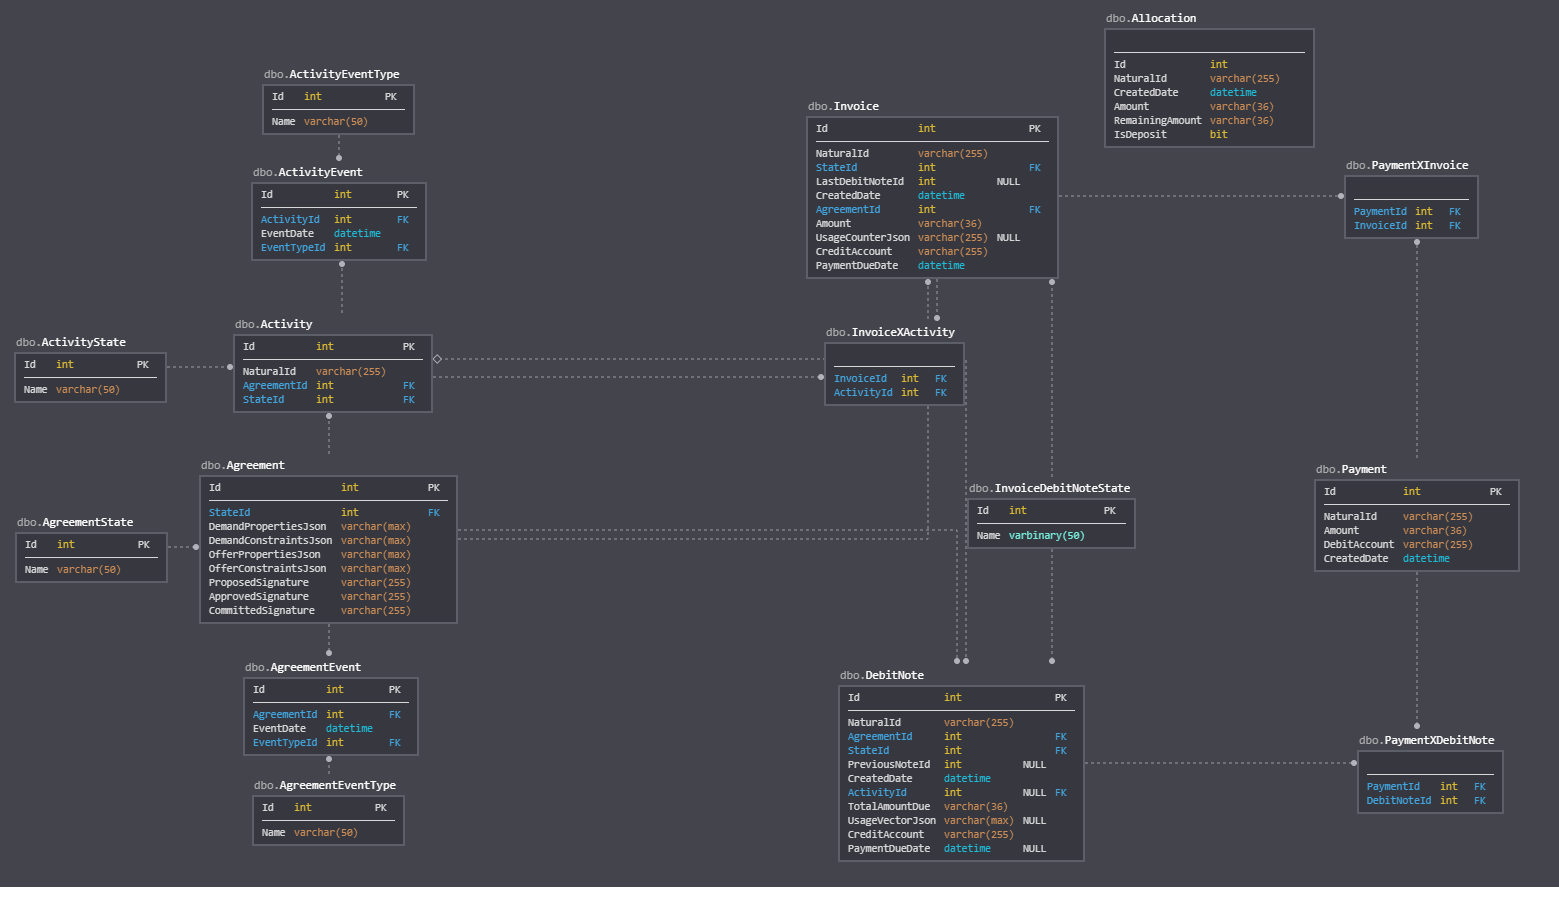
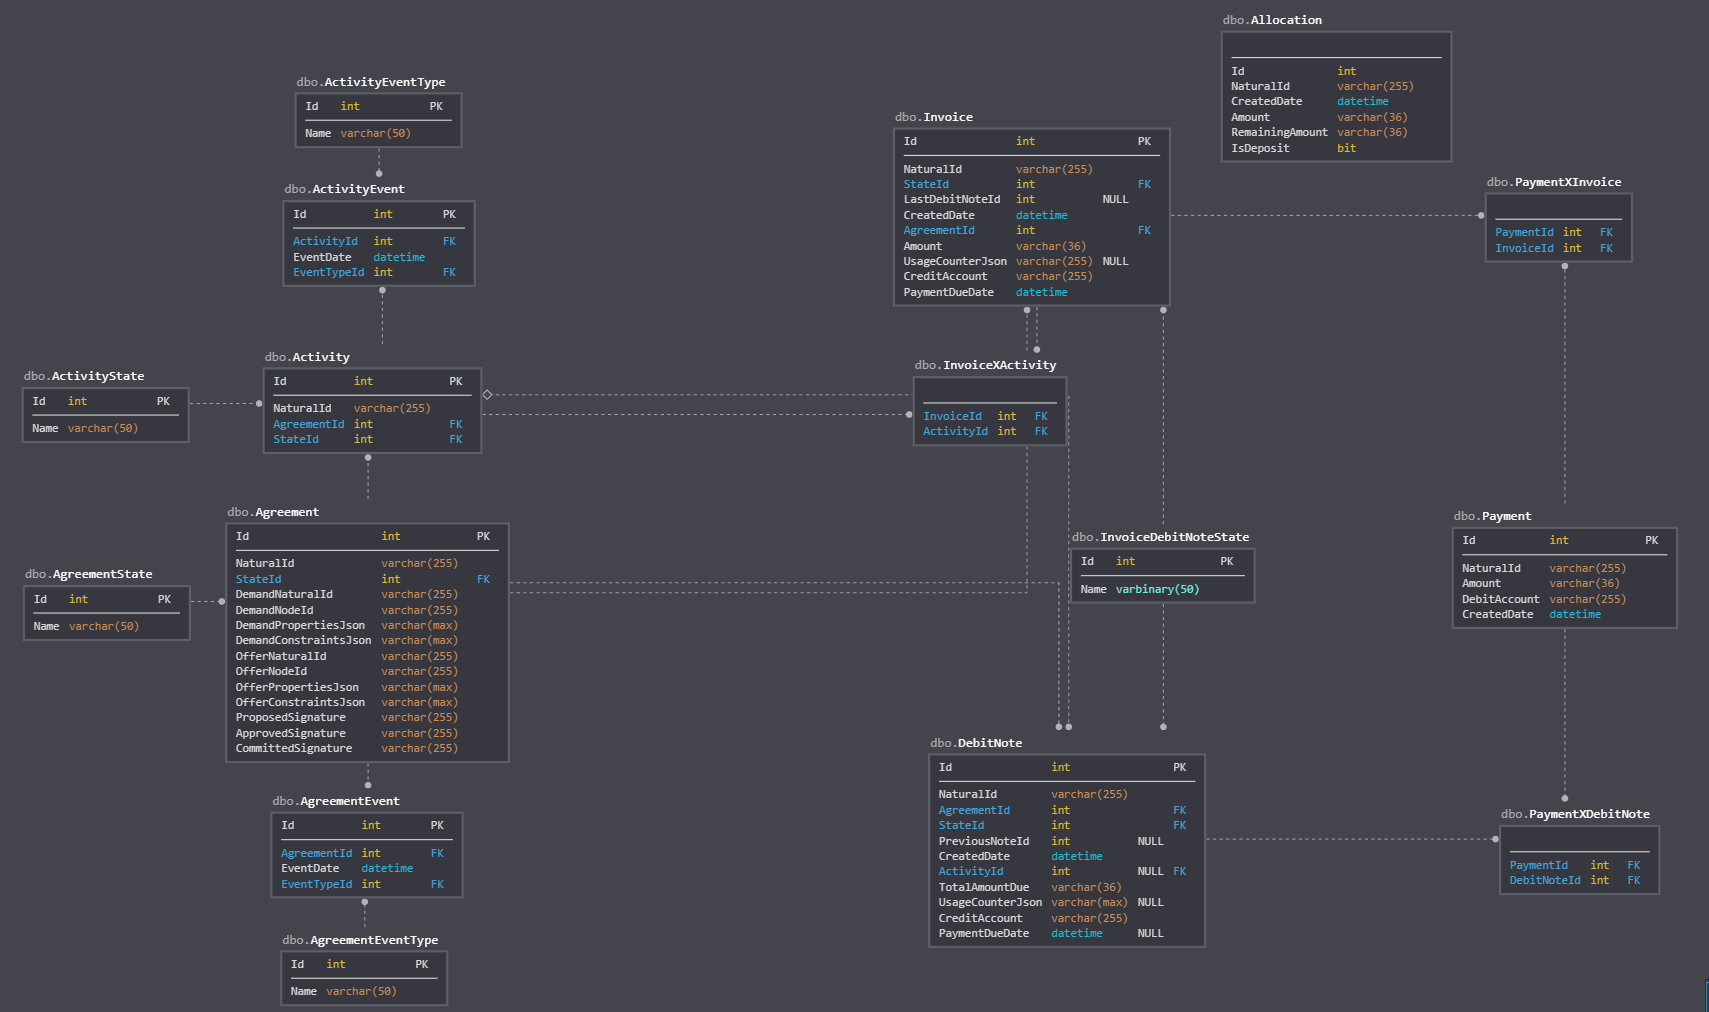
Updates to Yagna DB schema and specs

diff --git a/core/persistence/src/schema.rs b/core/persistence/src/schema.rs
@@ -33,9 +33,14 @@ table! {
 table! {
     Agreement (Id) {
         Id -> Integer,
+        NaturalId -> Text,
         StateId -> Integer,
+        DemandNaturalId -> Text,
+        DemandNodeId -> Text,
         DemandPropertiesJson -> Text,
         DemandConstraintsJson -> Text,
+        OfferNaturalId -> Text,
+        OfferNodeId -> Text,
         OfferPropertiesJson -> Text,
         OfferConstraintsJson -> Text,
         ProposedSignature -> Text,
@@ -88,7 +93,7 @@ table! {
         CreatedDate -> Timestamp,
         ActivityId -> Nullable<Integer>,
         TotalAmountDue -> Text,
-        UsageVectorJson -> Nullable<Text>,
+        UsageCounterJson -> Nullable<Text>,
         CreditAccount -> Text,
         PaymentDueDate -> Nullable<Timestamp>,
     }

diff --git a/core/persistence/README.md b/core/persistence/README.md
@@ -1,5 +1,72 @@
 # Yagna persistence db schema
 
+This module is an implementation of Yagna Daemon persistance layer, required to record and maintain the aspects of Daemon funcitonality related to Market, Activity and Payment APIs.
+
+It is based on SQLite3 and Diesel libraries.
+
+## Prerequisites
+
+### Ubuntu
+
+```sh
+apt update
+apt install curl git build-essential libsql3-dev
+curl https://sh.rustup.rs -sSf | sh
+source ~/.cargo/env
+```
+
+### Windows
+
+Firstly, you will need to install [vcpkg](https://github.com/microsoft/vcpkg):
+```
+> git clone https://github.com/Microsoft/vcpkg.git
+> cd vcpkg
+> .\bootstrap-vcpkg.bat
+```
+
+Then, set the following environment variable for your account:
+
+```
+setx VCPKG_ROOT <path_to_where_you_cloned_vcpkg>
+```
+
+After you've done all that, you'll need to install `libsqlite3` using `vcpkg`.
+From the dir where you cloned the `vcpkg` into, run:
+
+```
+> .\vcpkg install sqlite3 --triplet x64-windows-static
+```
+
+Once `sqlib3.lib` is built, set the environment path to point to folder where the .lib file is located:
+
+```
+> setx SQLITE3_LIB_DIR <path_to_where_you_cloned_vcpkg>\installed\x64-windows-static\lib
+
+```
+
+### Common
+
+Install Diesel CLI with SQLite:
+```
+cargo install diesel_cli --no-default-features --features sqlite
+```
+
+Run the migration to apply SQL schema to working db file and generate `schema.rs`:
+```
+diesel migration run
+```
+It is also possible to re-generate:
+```
+diesel migration redo
+```
+
+For actual execution, the name of db file to be used is controlled via environment variable:
+```
+DATABASE_URL=yagna.sqlite3
+```
+
+## Datamodel
+
 ![alt text](ERD.png "Entity Relationship diagram")
 
 
@@ -14,14 +81,19 @@ Table including all the attributes of an Agreement.
 | Column                | Type    | Description |
 |-----------------------|---------|-----------|
 | Id                    | integer | Primary key, autoincrement |
-| StateId               | integer | Foreign key to AgreementState |
+| NaturalId             | varchar(255) | Natural (public) Id of the Agreement |
+| StateId               | integer | Foreign key to `AgreementState` |
+| DemandNaturalId       | varchar(255) | Natural (public) Id of the Demand which formed the Agreement |
+| DemandNodeId          | varchar(255) | Node Id of Demand issuer |
 | DemandPropertiesJson  | TEXT    | JSON text specifying Demand Properties |
 | DemandConstraintsJson | TEXT    | Demand Constraints criteria expression |
+| OfferNaturalId        | varchar(255) | Natural (public) Id of the Offer which formed the Agreement |
+| OfferNodeId           | varchar(255) | Node Id of Offer Issuer |
 | OfferPropertiesJson   | TEXT    | JSON text specifying Offer Properties |
 | OfferConstraintsJson  | TEXT    | Demand Constraints criteria expression |
-| ProposedSignature     | TEXT    | Digital signature bitstream (Base64-encoded) of the Agreement artifact serialized after Confirm() operation on Requestor side |
-| ApprovedSignature     | TEXT    | Digital signature bitstream (Base64-encoded) of the Agreement artifact serialized after Approve() operation on Provider side |
-| CommittedSignature    | TEXT    | Digital signature bitstream (Base64-encoded) of the Agreement artifact serialized after Approved message is delivered to Requestor side and final committment is sent to Provider |
+| ProposedSignature     | TEXT    | Digital signature bitstream (Base64-encoded) of the Agreement artifact serialized after `Confirm()` operation on Requestor side |
+| ApprovedSignature     | TEXT    | Digital signature bitstream (Base64-encoded) of the Agreement artifact serialized after `Approve()` operation on Provider side |
+| CommittedSignature    | TEXT    | Digital signature bitstream (Base64-encoded) of the Agreement artifact serialized after Approved message is delivered to Requestor side and final commitment is sent to Provider |
 
 ### `AgreementEvent`
 
@@ -30,8 +102,8 @@ Table that tracks all events related to the Agreement.
 | Column                | Type    | Description |
 |-----------------------|---------|-----------|
 | Id                    | integer | Primary key, autoincrement |
-| AgreementId           | integer | Foreign key to Agreement |
-| EventDate             | datetime| |
+| AgreementId           | integer | Foreign key to `Agreement` |
+| EventDate             | datetime| Event timestamp in UTC |
 | EventTypeId           | integer | Foreign key to AgreementEventType |
 
 ### `AgreementEventType`
@@ -61,9 +133,9 @@ Tables containing entities essential for the Activity management and auditing.
 | Column                | Type    | Description |
 |-----------------------|---------|-----------|
 | Id                    | integer | Primary key, autoincrement |
-| NaturalId             | varchar(255) | |
-| AgreementId           | integer | Foreign key to Agreement |
-| StateId               | integer | Foreign key to ActivityState |
+| NaturalId             | varchar(255) | Natural (public) Id of the Activity |
+| AgreementId           | integer | Foreign key to `Agreement` |
+| StateId               | integer | Foreign key to `ActivityState` |
 
 
 ### `ActivityEvent`
@@ -71,9 +143,9 @@ Tables containing entities essential for the Activity management and auditing.
 | Column                | Type    | Description |
 |-----------------------|---------|-----------|
 | Id                    | integer | Primary key, autoincrement |
-| ActivityId            | integer | Foreign key to Activity |
-| EventDate             | datetime| |
-| EventTypeId           | integer | Foreign key to ActivityEventType |
+| ActivityId            | integer | Foreign key to `Activity` |
+| EventDate             | datetime| Event timestamp in UTC |
+| EventTypeId           | integer | Foreign key to `ActivityEventType` |
 
 
 ### `ActivityEventType`
@@ -103,11 +175,11 @@ Tables containing entities essential for the Payment Protocol execution.
 | Column                | Type    | Description |
 |-----------------------|---------|-----------|
 | Id                    | integer | Primary key, autoincrement |
-| NaturalId             | varchar(255) | |
-| CreatedDate           | datetime | |
-| Amount                | varchar(36) | |
-| RemainingAmount       | varchar(36) | |
-| IsDeposit             | char(1) | |
+| NaturalId             | varchar(255) | Natural (public) Id of the Allocation |
+| CreatedDate           | datetime | Allocation creation timestamp in UTC |
+| Amount                | varchar(36) | Maximum Allocation amount |
+| RemainingAmount       | varchar(36) | Amount remaining in allocation (after all deduction operations) |
+| IsDeposit             | char(1) | Indicates if the Allocation has been also transferred into relevant Deposit account (for Payment Platforms which leverage Deposits) |
 
 
 ### `DebitNote`
@@ -115,31 +187,31 @@ Tables containing entities essential for the Payment Protocol execution.
 | Column                | Type    | Description |
 |-----------------------|---------|-----------|
 | Id                    | integer | Primary key, autoincrement |
-| NaturalId             | varchar(255) | |
-| AgreementId           | integer | Foreign key to Agreement |
-| StateId               | integer | Foreign key to InvoiceDebitNoteState |
+| NaturalId             | varchar(255) | Natural (public) Id of the Debit Note |
+| AgreementId           | integer | Foreign key to `Agreement` |
+| StateId               | integer | Foreign key to `InvoiceDebitNoteState` |
 | PreviousNoteId        | integer | Foreign key to self |
-| CreatedDate           | datetime | |
-| ActivityId            | integer | Foreign key to Activity |
-| TotalAmountDue        | varchar(36) | |
-| UsageVectorJson       | TEXT | |
-| CreditAccount         | varchar(255) | |
-| PaymentDueDate        | datetime | |
+| CreatedDate           | datetime | Debit Note creation timestamp (in UTC) |
+| ActivityId            | integer | Foreign key to `Activity` |
+| TotalAmountDue        | varchar(36) | Total owed amount owed accrued by the Activity |
+| UsageCounterJson       | TEXT | JSON representation of the Activity's usage counters vector at the time of Debit Note issue |
+| CreditAccount         | varchar(255) | The target account to which payment should be made |
+| PaymentDueDate        | datetime | The timestamp (in UTC) by which the payment is expected to arrive |
 
 ### `Invoice`
 
 | Column                | Type    | Description |
 |-----------------------|---------|-----------|
 | Id                    | integer | Primary key, autoincrement |
-| NaturalId             | varchar(255) | |
-| StateId               | integer | Foreign key to InvoiceDebitNoteState |
-| LastDebitNoteId       | integer | Foreign key to DebitNote |
-| CreatedDate           | datetime | |
-| AgreementId           | integer | Foreign key to Agreement |
-| Amount                | varchar(36) | |
-| UsageCounterJson      | varchar(255) | |
-| CreditAccount         | varchar(255) | |
-| PaymentDueDate        | datetime | |
+| NaturalId             | varchar(255) | Natural (public) Id of the Invoice |
+| StateId               | integer | Foreign key to `InvoiceDebitNoteState` |
+| LastDebitNoteId       | integer | Foreign key to `DebitNote` |
+| CreatedDate           | datetime | Invoice creation timestamp (in UTC) |
+| AgreementId           | integer | Foreign key to `Agreement` |
+| Amount                | varchar(36) | Total owed amount owed accrued by the Agreement |
+| UsageCounterJson      | varchar(255) |  JSON representation of the Agreement's usage counters vector which is a base for the Invoice amount |
+| CreditAccount         | varchar(255) | The target account to which payment should be made |
+| PaymentDueDate        | datetime | The timestamp (in UTC) by which the payment is expected to arrive |
 
 ### `InvoiceDebitNoteState`
 
@@ -155,18 +227,18 @@ Association table between Invoice and Activity.
 | Column                | Type    | Description |
 |-----------------------|---------|-----------|
 | Id                    | integer | Primary key, autoincrement |
-| InvoiceId             | integer | Foreign key to Invoice |
-| ActivityId            | integer | Foreign key to Activity |
+| InvoiceId             | integer | Foreign key to `Invoice` |
+| ActivityId            | integer | Foreign key to `Activity` |
 
 ### `Payment`
 
 | Column                | Type    | Description |
 |-----------------------|---------|-----------|
 | Id                    | integer | Primary key, autoincrement |
-| NaturalId             | varchar(255) | |
-| Amount                | varchar(36) | |
-| DebitAccount          | varchar(255) | |
-| CreatedDate           | datetime | |
+| NaturalId             | varchar(255) | Natural (public) Id of the Payment |
+| Amount                | varchar(36) | Payment Amount |
+| DebitAccount          | varchar(255) | Account from which the payment has been made |
+| CreatedDate           | datetime | Payment timestamp (in UTC) |
 
 ### `PaymentXDebitNote`
 
@@ -175,8 +247,8 @@ Association table between Payment and DebitNote.
 | Column                | Type    | Description |
 |-----------------------|---------|-----------|
 | Id                    | integer | Primary key, autoincrement |
-| PaymentId             | integer | Foreign key to Payment |
-| DebitNoteId           | integer | Foreign key to DebitNote |
+| PaymentId             | integer | Foreign key to `Payment` |
+| DebitNoteId           | integer | Foreign key to `DebitNote` |
 
 ### `PaymentXInvoice`
 
@@ -185,5 +257,5 @@ Association table between Payment and Invoice.
 | Column                | Type    | Description |
 |-----------------------|---------|-----------|
 | Id                    | integer | Primary key, autoincrement |
-| PaymentId             | integer | Foreign key to Payment |
-| InvoiceId             | integer | Foreign key to Invoice |
+| PaymentId             | integer | Foreign key to `Payment` |
+| InvoiceId             | integer | Foreign key to `Invoice` |
